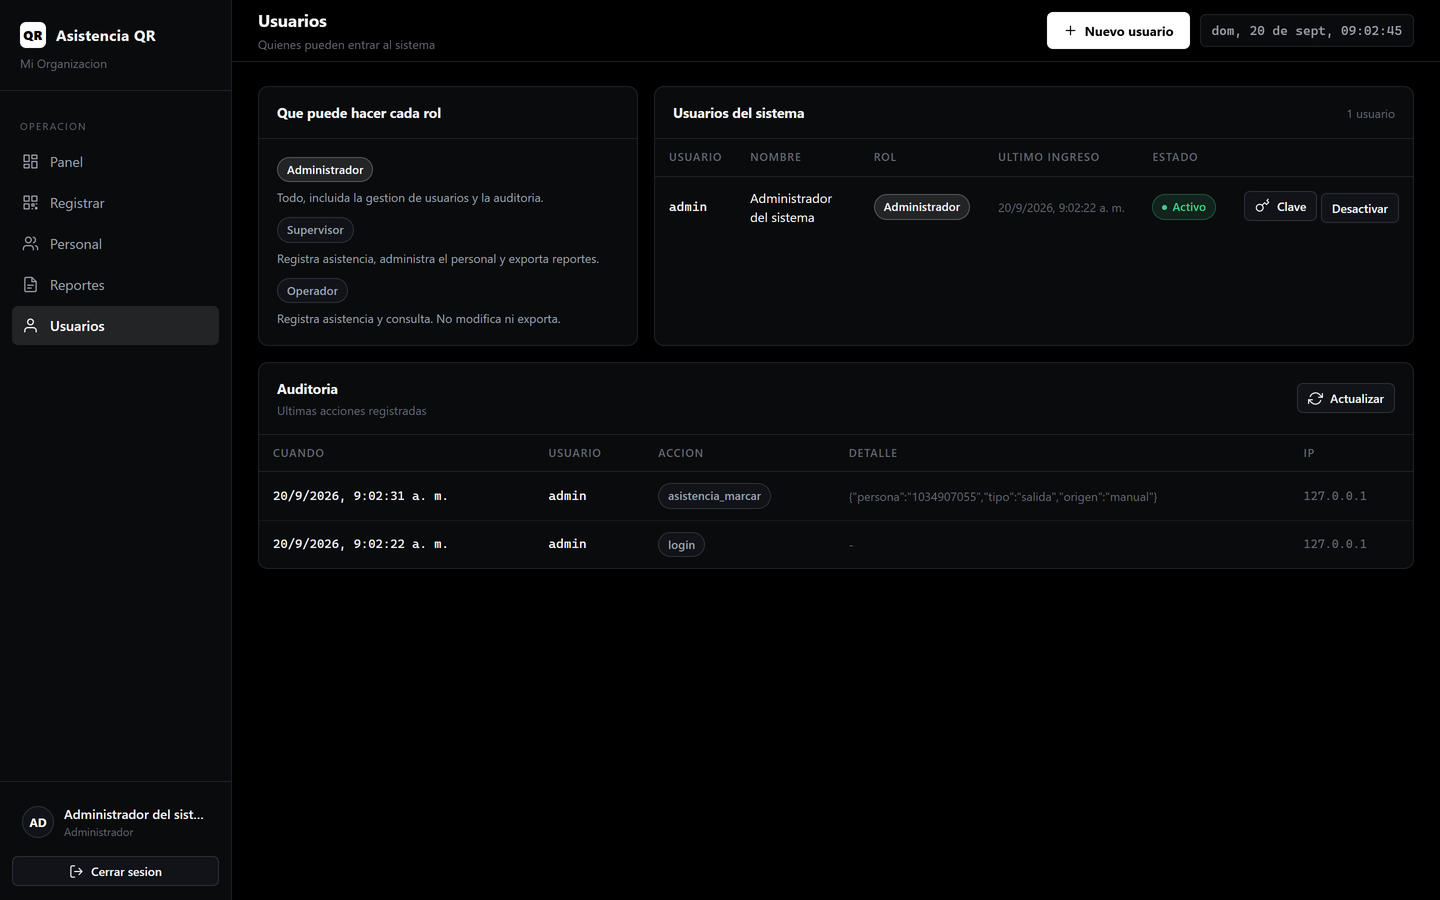
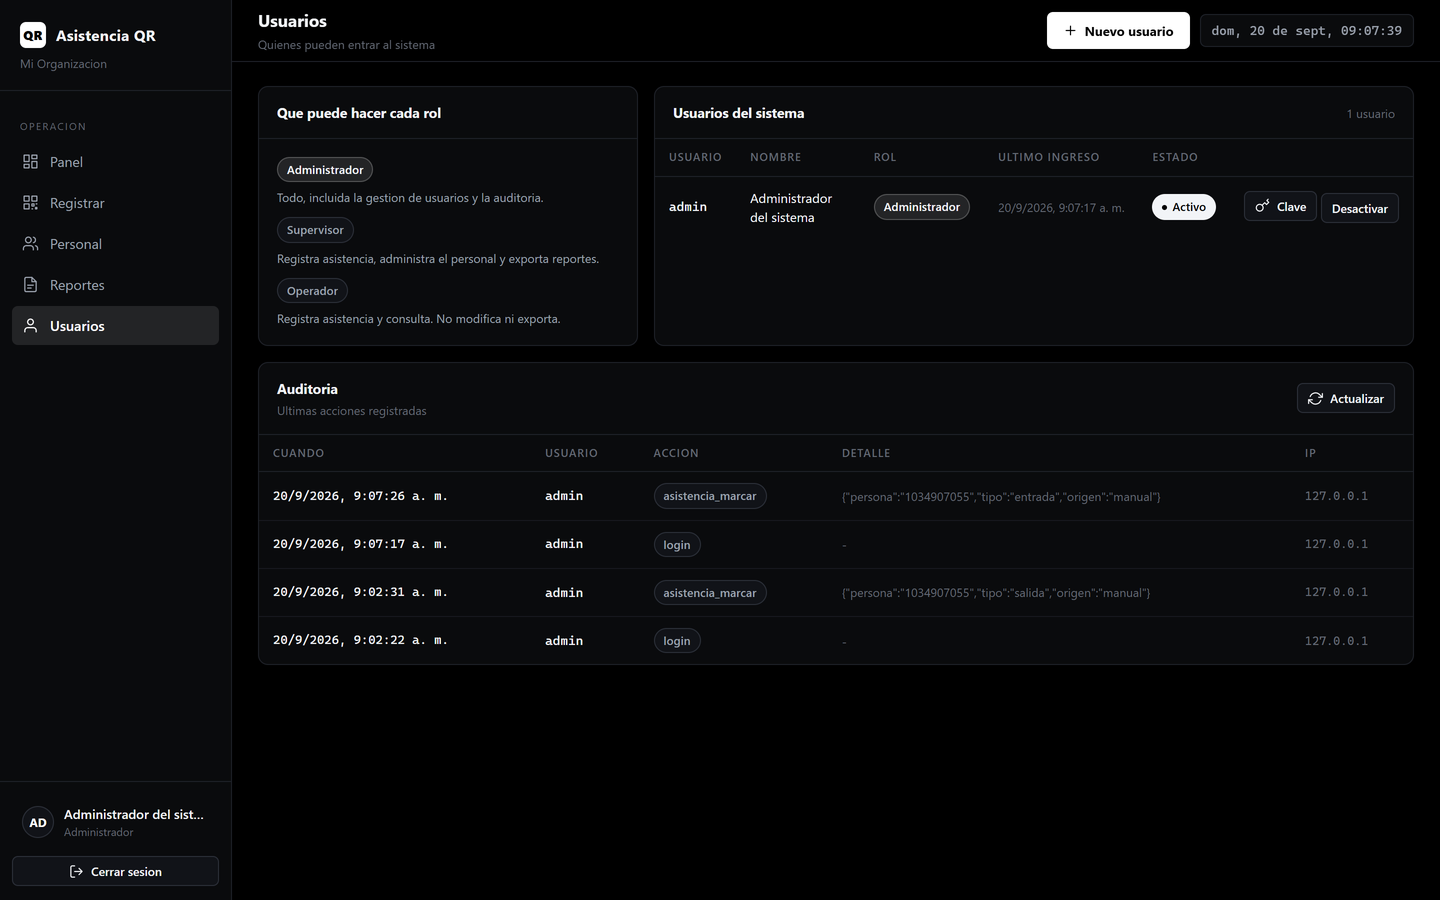
Fuera tambien el verde y el rojo: solo blanco, negro y grises
La regla de marca no era solo el ambar. La aplicacion queda sin ningun
color:

- Entrada y salida se distinguen invirtiendo el bloque: la entrada va
  en blanco sobre negro, la salida solo con contorno. Se leen igual de
  rapido y no dependen de ver color.
- Los cuatro indicadores del panel se escalonan por opacidad, no por
  color; las clases pasan de verde/rojo/azul a fuerte/medio/suave,
  que es lo que de verdad hacen.
- Las graficas usan blanco para entradas y gris para salidas.
- El Excel tambien: negrita para la entrada y gris para la salida, que
  ademas se imprime bien en blanco y negro.

diff --git a/public/css/app.css b/public/css/app.css
@@ -18,11 +18,12 @@
   --acento: #ffffff;
   --acento-suave: rgba(255, 255, 255, 0.10);
   --acento-borde: rgba(255, 255, 255, 0.22);
-  --verde: #3ecf8e;
-  --verde-suave: rgba(62, 207, 142, 0.12);
-  --rojo: #f2555a;
-  --rojo-suave: rgba(242, 85, 90, 0.12);
-  --azul: #5b9dff;
+  /* Sin colores: entrada y salida se distinguen invirtiendo el bloque,
+     y el resto con grados de blanco sobre el negro. */
+  --invertido: #f2f4f7;
+  --tenue-10: rgba(255, 255, 255, 0.10);
+  --tenue-22: rgba(255, 255, 255, 0.22);
+  --tenue-45: rgba(255, 255, 255, 0.45);
 
   --radio: 10px;
   --radio-chico: 6px;
@@ -243,13 +244,14 @@ button, input, select, textarea { font-family: inherit; font-size: inherit; colo
   position: absolute;
   inset: 0 auto 0 0;
   width: 2px;
-  background: var(--acento);
-  opacity: 0.55;
+  background: var(--texto);
+  opacity: 0.5;
 }
 
-.indicador.verde::after { background: var(--verde); }
-.indicador.rojo::after { background: var(--rojo); }
-.indicador.azul::after { background: var(--azul); }
+/* Los cuatro indicadores se escalonan por opacidad, no por color. */
+.indicador.fuerte::after { opacity: 0.85; }
+.indicador.medio::after  { opacity: 0.65; }
+.indicador.suave::after  { opacity: 0.35; }
 
 .indicador-nombre {
   font-size: 11px;
@@ -295,7 +297,7 @@ button, input, select, textarea { font-family: inherit; font-size: inherit; colo
 }
 
 .campo input::placeholder, .entrada::placeholder { color: var(--texto-tenue); }
-.campo .error { font-size: 12px; color: var(--rojo); min-height: 16px; }
+.campo .error { font-size: 12px; color: var(--texto); min-height: 16px; }
 
 /* El desplegable nativo pinta su flecha como bloque gris sobre fondo oscuro. */
 .campo select, select.entrada {
@@ -339,8 +341,8 @@ button, input, select, textarea { font-family: inherit; font-size: inherit; colo
 }
 
 .boton-principal:hover:not(:disabled) { background: #d8dbe0; border-color: #d8dbe0; }
-.boton-peligro { color: var(--rojo); border-color: rgba(242, 85, 90, 0.35); }
-.boton-peligro:hover:not(:disabled) { background: var(--rojo-suave); }
+.boton-peligro { color: var(--texto-medio); border-color: var(--tenue-22); }
+.boton-peligro:hover:not(:disabled) { background: var(--tenue-10); color: var(--texto); }
 .boton-ancho { width: 100%; }
 .boton-chico { padding: 6px 10px; font-size: 12px; }
 
@@ -388,8 +390,8 @@ table.tabla tbody tr:last-child td { border-bottom: none; }
   white-space: nowrap;
 }
 
-.pastilla-entrada { background: var(--verde-suave); color: var(--verde); border-color: rgba(62, 207, 142, 0.28); }
-.pastilla-salida { background: var(--rojo-suave); color: var(--rojo); border-color: rgba(242, 85, 90, 0.28); }
+.pastilla-entrada { background: var(--invertido); color: var(--negro); border-color: var(--invertido); }
+.pastilla-salida { background: transparent; color: var(--texto-medio); border-color: var(--tenue-22); }
 .pastilla-neutra { background: var(--panel-alto); color: var(--texto-medio); border-color: var(--borde-vivo); }
 .pastilla-acento { background: var(--acento-suave); color: var(--texto); border-color: var(--acento-borde); }
 .pastilla::before { content: ""; width: 5px; height: 5px; border-radius: 50%; background: currentColor; }
@@ -419,8 +421,8 @@ table.tabla tbody tr:last-child td { border-bottom: none; }
   animation: entra 0.18s ease;
 }
 
-.aviso-ok { border-left-color: var(--verde); }
-.aviso-error { border-left-color: var(--rojo); }
+.aviso-ok { border-left-color: var(--texto); }
+.aviso-error { border-left-color: var(--texto-tenue); }
 .aviso-titulo { font-weight: 650; margin-bottom: 2px; }
 .aviso-texto { color: var(--texto-medio); font-size: 12.5px; }
 
@@ -556,8 +558,8 @@ table.tabla tbody tr:last-child td { border-bottom: none; }
   animation: entra 0.2s ease;
 }
 
-.resultado.entrada { border-color: rgba(62, 207, 142, 0.4); background: var(--verde-suave); }
-.resultado.salida { border-color: rgba(242, 85, 90, 0.4); background: var(--rojo-suave); }
+.resultado.entrada { border-color: var(--invertido); background: var(--tenue-10); }
+.resultado.salida { border-color: var(--tenue-22); background: transparent; }
 .resultado-nombre { font-size: 20px; font-weight: 700; margin: 10px 0 3px; }
 .resultado-dato { font-size: 13px; color: var(--texto-medio); }
 .resultado-hora { font-family: var(--mono); font-size: 27px; font-weight: 700; margin-top: 12px; letter-spacing: 0.02em; }
@@ -567,10 +569,10 @@ table.tabla tbody tr:last-child td { border-bottom: none; }
 .grafica { width: 100%; display: block; overflow: visible; }
 .grafica text { font-family: var(--fuente); fill: var(--texto-tenue); font-size: 10.5px; }
 .grafica .rejilla-linea { stroke: var(--borde); stroke-width: 1; }
-.grafica .barra-entrada { fill: var(--verde); }
-.grafica .barra-salida { fill: var(--rojo); }
+.grafica .barra-entrada { fill: var(--invertido); }
+.grafica .barra-salida { fill: var(--texto-tenue); }
 /* Serie unica (marcaciones totales): sin significado de entrada ni salida. */
-.grafica .barra-total { fill: var(--texto); }
+.grafica .barra-total { fill: var(--invertido); }
 
 .leyenda { display: flex; gap: 16px; align-items: center; font-size: 12px; color: var(--texto-medio); }
 .leyenda span { display: inline-flex; align-items: center; gap: 6px; }

diff --git a/public/js/panel.js b/public/js/panel.js
@@ -67,9 +67,9 @@ async function pintar(dias) {
   vista.innerHTML = `
     <div class="rejilla rejilla-4">
       ${indicador('Personal activo', i.personalActivo, 'registrados en el sistema')}
-      ${indicador('Marcaron hoy', i.personasHoy, `${i.cobertura}% del personal`, 'azul')}
-      ${indicador('Presentes ahora', i.presentes, 'su ultima marca fue entrada', 'verde')}
-      ${indicador('Marcaciones hoy', i.marcacionesHoy, `${i.entradasHoy} entradas · ${i.salidasHoy} salidas`, 'rojo')}
+      ${indicador('Marcaron hoy', i.personasHoy, `${i.cobertura}% del personal`, 'medio')}
+      ${indicador('Presentes ahora', i.presentes, 'su ultima marca fue entrada', 'fuerte')}
+      ${indicador('Marcaciones hoy', i.marcacionesHoy, `${i.entradasHoy} entradas · ${i.salidasHoy} salidas`, 'suave')}
     </div>
 
     <div class="rejilla rejilla-2-1 mt-16">

diff --git a/src/routes/reportes.routes.js b/src/routes/reportes.routes.js
@@ -89,8 +89,10 @@ router.get(
 );
 
 const CABECERA = { backgroundColor: '#111318', color: '#FFFFFF', fontWeight: 'bold', align: 'left' };
-const VERDE = '#1B7F4B';
-const ROJO = '#B03A2E';
+// En el Excel la entrada va en negrita y la salida en gris: el archivo
+// tambien se imprime en blanco y negro.
+const ENTRADA = '#111318';
+const SALIDA = '#6F7681';
 
 router.get(
   '/excel',
@@ -115,7 +117,7 @@ router.get(
       hoja.push(
         COLUMNAS.map((c) =>
           c.key === 'tipo'
-            ? { value: fila.tipo, fontWeight: 'bold', color: r.tipo === 'entrada' ? VERDE : ROJO }
+            ? { value: fila.tipo, fontWeight: 'bold', color: r.tipo === 'entrada' ? ENTRADA : SALIDA }
             : { value: fila[c.key], type: String },
         ),
       );

diff --git a/public/js/graficas.js b/public/js/graficas.js
@@ -110,6 +110,6 @@ export function barrasRanking(filas, { etiqueta = 'area', valor = 'total' } = {}
 
 export const leyendaEntradaSalida = `
   <div class="leyenda">
-    <span><i style="background:var(--verde)"></i>Entradas</span>
-    <span><i style="background:var(--rojo)"></i>Salidas</span>
+    <span><i style="background:var(--invertido)"></i>Entradas</span>
+    <span><i style="background:var(--texto-tenue)"></i>Salidas</span>
   </div>`;
